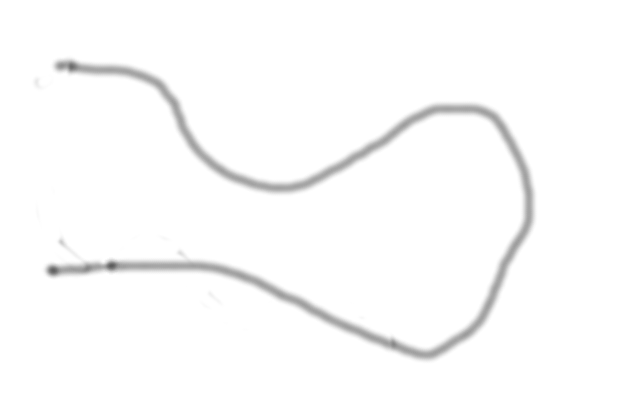
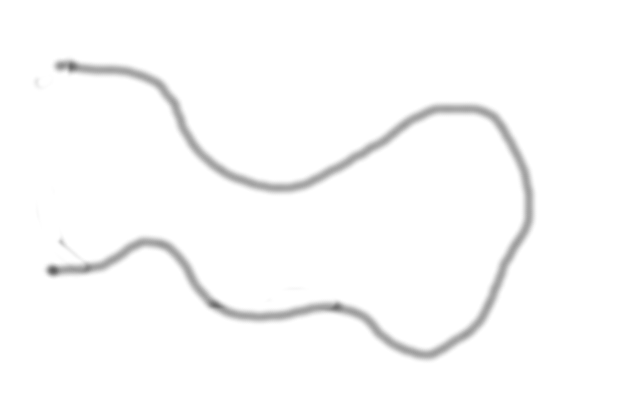
Squaring of the error signal is pretty detrimental. Just using abs now.

Changed region(s): [[0.1562, 0.57, 0.625, 0.87]]

diff --git a/linefollower/Linefollower.cpp b/linefollower/Linefollower.cpp
@@ -15,8 +15,8 @@ double	maxx = 300;
 double	maxy = 300;
 
 // for stats
-#define SQ_ERROR_THRES 1E-7
-#define STEPS_BELOW_ERR_THRESHOLD 2500
+#define SQ_ERROR_THRES 0.001
+#define STEPS_BELOW_ERR_THRESHOLD 1000
 
 // max number of steps to terminate
 #define MAX_STEPS 200000
@@ -71,7 +71,7 @@ protected:
 	long step = 0;
 
 	double avgError = 0;
-	double avgErrorDecay = 0.001;
+	double avgErrorDecay = 0.01;
 
 	int successCtr = 0;
 
@@ -145,8 +145,8 @@ public:
 		double leftGround2 = racer->groundSensorLeft2.getValue();
 		double rightGround2 = racer->groundSensorRight2.getValue();
 
-		fprintf(stderr,"%f ",racer->pos.x);
-		fprintf(fcoord,"%f %f\n",racer->pos.x,racer->pos.y);
+		fprintf(stderr,"%e ",racer->pos.x);
+		fprintf(fcoord,"%e %e\n",racer->pos.x,racer->pos.y);
 		// check if we've bumped into a wall
 		if ((racer->pos.x<75) ||
 		    (racer->pos.x>(maxx-border)) ||
@@ -176,20 +176,38 @@ public:
 			deep_fbl->setLearningRate(learningRate);
 		}
 
-		fprintf(stderr,"%f %f %f %f ",leftGround,rightGround,leftGround2,rightGround2);
+		fprintf(stderr,"%e %e %e %e ",leftGround,rightGround,leftGround2,rightGround2);
 		for(int i=0;i<racer->getNsensors();i++) {
 			pred[i] = -(racer->getSensorArrayValue(i))*10;
 			// workaround of a bug in Enki
 			if (pred[i]<0) pred[i] = 0;
-			//if (i>=racer->getNsensors()/2) fprintf(stderr,"%f ",pred[i]);
+			//if (i>=racer->getNsensors()/2) fprintf(stderr,"%e ",pred[i]);
 		}
-		double error = (leftGround+leftGround2*4)-(rightGround+rightGround2*4);
-       		avgError = avgError + (error - avgError)*avgErrorDecay;
+		double error = (leftGround*2+leftGround2*5)-(rightGround*2+rightGround2*5);
 		for(int i=0;i<nNeuronsInHiddenLayers[0];i++) {
 			err[i] = error;
                 }
-		double sqAvgError = avgError * avgError;
-		if (sqAvgError > SQ_ERROR_THRES) {
+		// !!!!
+		deep_fbl->doStep(pred,err);
+		float vL = (deep_fbl->getOutputLayer()->getNeuron(0)->getOutput())*50 +
+			(deep_fbl->getOutputLayer()->getNeuron(1)->getOutput())*10 +
+			(deep_fbl->getOutputLayer()->getNeuron(2)->getOutput())*2;
+		float vR = (deep_fbl->getOutputLayer()->getNeuron(3)->getOutput())*50 +
+			(deep_fbl->getOutputLayer()->getNeuron(4)->getOutput())*10 +
+			(deep_fbl->getOutputLayer()->getNeuron(5)->getOutput())*2;
+		
+		double erroramp = error * fbgain;
+		fprintf(stderr,"%e ",erroramp);
+		fprintf(stderr,"%e ",vL);
+		fprintf(stderr,"%e ",vR);
+		fprintf(stderr,"\n");
+		racer->leftSpeed = speed+erroramp+vL;
+		racer->rightSpeed = speed-erroramp+vR;
+
+		// documenting
+       		avgError = avgError + (error - avgError)*avgErrorDecay;
+		double absError = fabs(avgError);
+		if (absError > SQ_ERROR_THRES) {
 			successCtr = 0;
 		} else {
 			successCtr++;
@@ -200,36 +218,22 @@ public:
 		if (step>MAX_STEPS) {
 			qApp->quit();
 		}
-		deep_fbl->doStep(pred,err);
-		float vL = (deep_fbl->getOutputLayer()->getNeuron(0)->getOutput())*50 +
-			(deep_fbl->getOutputLayer()->getNeuron(1)->getOutput())*10 +
-			(deep_fbl->getOutputLayer()->getNeuron(2)->getOutput())*2;
-		float vR = (deep_fbl->getOutputLayer()->getNeuron(3)->getOutput())*50 +
-			(deep_fbl->getOutputLayer()->getNeuron(4)->getOutput())*10 +
-			(deep_fbl->getOutputLayer()->getNeuron(5)->getOutput())*2;
 		
-		error = error * fbgain;
-		fprintf(stderr,"%f ",error);
-		fprintf(stderr,"%f ",vL);
-		fprintf(stderr,"%f ",vR);
-		fprintf(stderr,"\n");
-		racer->leftSpeed = speed+error+vL;
-		racer->rightSpeed = speed-error+vR;
-		
-		if (learningOff) error = 0;
-		fprintf(flog,"%f %f %f ",error,vL,vR);
+		if (learningOff) erroramp = 0;
+		fprintf(flog,"%e %e %e ",erroramp,vL,vR);
 		for(int i=0;i<deep_fbl->getNumLayers();i++) {
-			fprintf(flog,"%f ",deep_fbl->getLayer(i)->getWeightDistanceFromInitialWeights());
+			fprintf(flog,"%e ",deep_fbl->getLayer(i)->getWeightDistanceFromInitialWeights());
 		}
 		fprintf(flog,"\n");
 		int n = 0;
+		fprintf(llog,"%e ",error);
 		fprintf(llog,"%e ",avgError);
-		fprintf(llog,"%e ",sqAvgError);
+		fprintf(llog,"%e ",absError);
 		for(int i=0;i<deep_fbl->getLayer(0)->getNeuron(0)->getNfilters();i++) {
 			fprintf(llog,"%e ",deep_fbl->getLayer(0)->getNeuron(0)->getFilterOutput(n,i));
 			fprintf(llog,"%e ",deep_fbl->getLayer(0)->getNeuron(0)->getWeight(n,i));
 		}
-		fprintf(llog,"%f\n",deep_fbl->getLayer(0)->getNeuron(0)->getOutput());
+		fprintf(llog,"%e\n",deep_fbl->getLayer(0)->getNeuron(0)->getOutput());
 		if ((step%100)==0) {
 			for(int i=0;i<deep_fbl->getNumLayers();i++) {
 				char tmp[256];
@@ -237,6 +241,7 @@ public:
 				deep_fbl->getLayer(i)->saveWeightMatrix(tmp);
 			}
 		}
+
 		step++;
 	}
 
@@ -275,10 +280,12 @@ void singleRun(int argc,
 void statsRun(int argc,
 	      char *argv[]) {
 	FILE* f = fopen("stats.dat","wt");
-	srandom(42);
-	for(double learningRate = 1.0E-05; learningRate < 0.1; learningRate = learningRate * 1.25) {
-		singleRun(argc,argv,learningRate,f);
-		fflush(f);
+	for(double learningRate =0.0001; learningRate < 0.1; learningRate = learningRate * 1.5) {
+		srandom(42);
+		for(int j=0;j<2;j++) {
+			singleRun(argc,argv,learningRate,f);
+			fflush(f);
+		}
 	}
 	fclose(f);
 }
